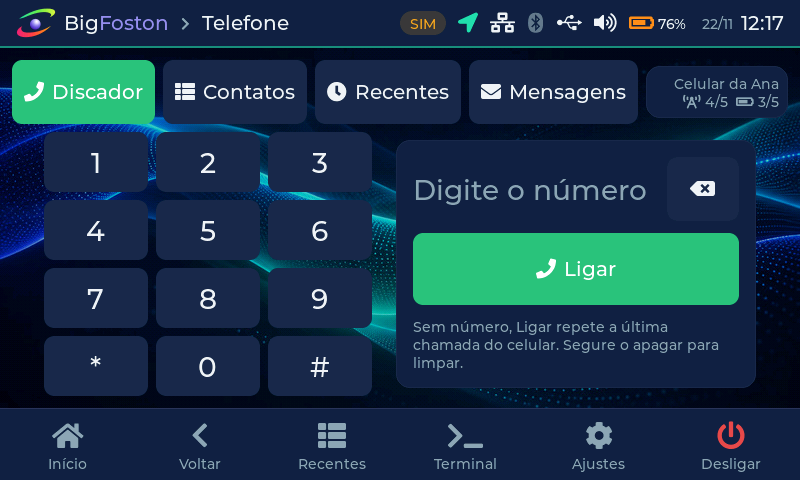
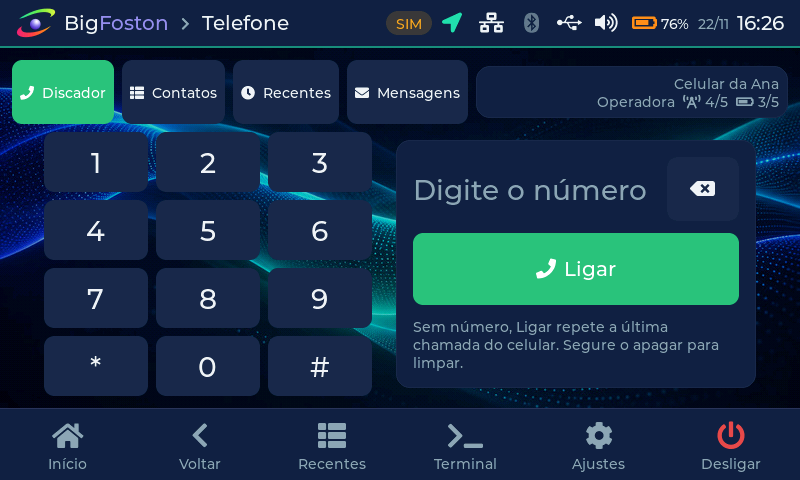
Início, barra superior e toque: atalhos, Conexão com o celular e rolagem estável
- Barra superior: caixas de toque de 44 px em volta dos ícones; GPS -> GpsInfo, rede ->
  SSH, Bluetooth -> Bluetooth, som -> volume num toque, bateria -> Potência.
- Glass: card Conexão mais largo (446 px), linhas inteiras clicáveis (os filhos não roubam
  o toque), operadora, antena e bateria do celular na linha do Bluetooth; dock com TV e
  Galeria no lugar de GPS e Bluetooth.
- Telefone: status ao lado das abas com operadora, antena e bateria; abas compactas.
- Toque: mediana de 3 amostras, média e zona morta de 2 px; LVGL com limiar de rolagem
  de 16 px e arremesso mais curto (rolagem estável no painel resistivo).

Testado no aparelho: volume abre com um toque; o texto da linha Bluetooth abre a tela.

Changed region(s): [[0.0312, 0.125, 0.8438, 0.2812], [0.4688, 0.0, 0.6875, 0.0938], [0.75, 0.0312, 1.0, 0.0625]]

diff --git a/src/ui/screens/scr_home_glass.c b/src/ui/screens/scr_home_glass.c
@@ -15,6 +15,7 @@
 #include "../core/cover.h"
 #include "../core/btstat.h"
 #include "../core/gpsstat.h"
+#include "../core/phonestat.h"
 #include "../widgets/glass.h"
 #include "../assets/icons/bf_icons.h"
 #include <stdio.h>
@@ -25,7 +26,7 @@
 
 static lv_timer_t *tick_t, *spec_t;
 static lv_obj_t *clk, *date_l, *wday_l;
-static lv_obj_t *bt_dev, *bt_st, *bt_dot, *gps_st, *gps_dot, *gps_bars;
+static lv_obj_t *bt_dev, *bt_st, *bt_dot, *gps_st, *gps_dot, *gps_bars, *ph_op, *ph_bars, *ph_bat;
 static lv_obj_t *cov_box, *cov_img, *cov_note, *song, *artist, *spec, *pos_l, *len_l, *prog, *play_l;
 static lv_image_dsc_t thumb;
 static int thumb_for = -2, last_min = -1, last_day = -1;
@@ -105,12 +106,25 @@ static void gl_clock_tick(void)
 static void open_bt(lv_event_t *e) { (void)e; nav_go(SCR_BLUETOOTH, 0); }
 static void open_gps(lv_event_t *e) { (void)e; nav_go(SCR_GPS, 0); }
 
+#define CONN_W 446                         /* largura do card Conexão (alinhado ao do relógio) */
+
+/* a linha inteira é o botão: os filhos não pegam o toque */
+static void unclick_children(lv_obj_t *o)
+{
+    for(uint32_t i = 0; i < lv_obj_get_child_count(o); i++) {
+        lv_obj_t *c = lv_obj_get_child(o, (int32_t)i);
+        lv_obj_remove_flag(c, LV_OBJ_FLAG_CLICKABLE);
+        unclick_children(c);
+    }
+}
+
 static lv_obj_t *row(lv_obj_t *card, int y, int h, lv_event_cb_t cb)
 {
     lv_obj_t *r = lv_obj_create(card);
     lv_obj_remove_style_all(r);
     lv_obj_set_pos(r, 6, y);
-    lv_obj_set_size(r, 258, h);
+    lv_obj_set_size(r, CONN_W - 14, h);
+    lv_obj_add_flag(r, LV_OBJ_FLAG_CLICKABLE);
     lv_obj_set_style_radius(r, 14, 0);
     lv_obj_set_style_bg_color(r, lv_color_white(), LV_STATE_PRESSED);
     lv_obj_set_style_bg_opa(r, LV_OPA_10, LV_STATE_PRESSED);
@@ -132,7 +146,7 @@ static lv_obj_t *dot(lv_obj_t *parent)
 
 static void conn_card(lv_obj_t *p)
 {
-    lv_obj_t *c = glass_card(p, 32, 117, 272, 156, 22);     /* folga abaixo do GPS */
+    lv_obj_t *c = glass_card(p, 30, 117, CONN_W, 156, 22);  /* folga abaixo do GPS */
     lv_obj_t *t = glass_label(c, tr(S_GL_CONNECTION), BF_FONT_M, GL_WHITE);
     lv_obj_set_pos(t, 18, 8);
 
@@ -149,10 +163,22 @@ static void conn_card(lv_obj_t *p)
     lv_obj_set_pos(bt_dot, 63, 45);
     bt_st = glass_label(r, "", BF_FONT_S, GL_ACTIVE);
     lv_obj_set_pos(bt_st, 76, 40);
+    /* celular conectado: operadora, antena (sinal 0-5 em 4 barras) e bateria */
+    ph_op = glass_label(r, "", BF_FONT_S, GL_WHITE);
+    lv_obj_set_width(ph_op, 160);
+    lv_label_set_long_mode(ph_op, LV_LABEL_LONG_DOT);
+    lv_obj_set_style_text_align(ph_op, LV_TEXT_ALIGN_RIGHT, 0);
+    lv_obj_set_pos(ph_op, CONN_W - 14 - 170, 6);
+    ph_bars = glass_bars(r);
+    lv_obj_set_pos(ph_bars, CONN_W - 14 - 100, 30);
+    ph_bat = glass_label(r, "", BF_FONT_S, GL_WHITE);
+    lv_obj_set_pos(ph_bat, CONN_W - 14 - 62, 34);
+    glass_bars_set(ph_bars, -1);
+    unclick_children(r);
 
     lv_obj_t *line = lv_obj_create(c);
     lv_obj_remove_style_all(line);
-    lv_obj_set_size(line, 236, 1);
+    lv_obj_set_size(line, CONN_W - 36, 1);
     lv_obj_set_pos(line, 18, 100);
     lv_obj_set_style_bg_color(line, lv_color_white(), 0);
     lv_obj_set_style_bg_opa(line, LV_OPA_30, 0);
@@ -167,7 +193,8 @@ static void conn_card(lv_obj_t *p)
     gps_st = glass_label(r, "", BF_FONT_S, GL_ACTIVE);
     lv_obj_set_pos(gps_st, 76, 22);
     gps_bars = glass_bars(r);
-    lv_obj_set_pos(gps_bars, 216, 8);
+    lv_obj_set_pos(gps_bars, CONN_W - 14 - 46, 8);
+    unclick_children(r);
 }
 
 static void status_color(lv_obj_t *dot_, lv_obj_t *lbl, bool on)
@@ -200,6 +227,23 @@ static void conn_tick(void)
     set_text_if(bt_dev, dev);
     set_text_if(bt_st, st);
     status_color(bt_dot, bt_st, on);
+
+    /* celular pelo canal de ligações (HFP): operadora, sinal e bateria dele */
+    ph_info_t ph;
+    ph_read(&ph);
+    if(ph.link && ph.signal >= 0) {
+        set_text_if(ph_op, ph.op[0] ? ph.op : "");
+        glass_bars_set(ph_bars, ph.service == 0 ? 0 : (ph.signal * 4 + 4) / 5);
+        char bb[24];
+        snprintf(bb, sizeof bb, "%s %d/5", ph.battery >= 4 ? LV_SYMBOL_BATTERY_FULL : ph.battery >= 3 ? LV_SYMBOL_BATTERY_3 :
+                 ph.battery >= 2 ? LV_SYMBOL_BATTERY_2 : ph.battery >= 1 ? LV_SYMBOL_BATTERY_1 : LV_SYMBOL_BATTERY_EMPTY,
+                 ph.battery < 0 ? 0 : ph.battery);
+        set_text_if(ph_bat, ph.battery >= 0 ? bb : "");
+    } else {
+        set_text_if(ph_op, "");
+        set_text_if(ph_bat, "");
+        glass_bars_set(ph_bars, -1);
+    }
 
     gps_info_t g;
     gps_read(&g);
@@ -423,10 +467,10 @@ static void spec_tick(lv_timer_t *t)
 static void dock_click(lv_event_t *e)
 {
     switch((int)(intptr_t)lv_event_get_user_data(e)) {
-    case 0: nav_go(SCR_MAP, 0); break;
+    case 0: nav_go(SCR_FEATURE, FEAT_TV); break;
     case 1: nav_go(SCR_FEATURE, FEAT_RADIO); break;
     case 2: nav_go(SCR_HOME, HOME_ARG_APPS); break;
-    case 3: nav_go(SCR_BLUETOOTH, 0); break;
+    case 3: nav_go(SCR_GALLERY, 0); break;
     case 4: nav_go(SCR_PHONE, 0); break;
     }
 }
@@ -462,10 +506,10 @@ static void dock(lv_obj_t *p)
 {
     lv_obj_t *d = glass_card(p, 24, 287, 752, 124, 28);
     static const struct { const lv_image_dsc_t *icon; bf_str_t name; uint32_t top, bot; } it[5] = {
-        { &bf_icon_gps, S_APP_GPS, GL_LIGHT, GL_BLUE },
+        { &bf_icon_tv, S_APP_TV, GL_LIGHT, GL_BLUE },
         { &bf_icon_fm, S_GL_RADIO, GL_LAVENDER, GL_LAVBLUE },
         { NULL, S_GL_APPS, GL_SKY, GL_BLUE },
-        { &bf_icon_bluetooth, S_APP_BLUETOOTH, GL_LIGHT, GL_BLUE },
+        { &bf_icon_gallery, S_APP_GALLERY, GL_LIGHT, GL_BLUE },
         { &bf_icon_phone, S_APP_PHONE, GL_LAVENDER, GL_LAVBLUE },
     };
     static const int cx[5] = { 85, 231, 376, 521, 667 };
@@ -526,6 +570,6 @@ void home_glass_destroy(void)
     if(spec_t) { lv_timer_delete(spec_t); spec_t = NULL; }
     jpeg_free(&thumb);
     thumb_for = -2;
-    clk = date_l = wday_l = bt_dev = bt_st = bt_dot = gps_st = gps_dot = gps_bars = NULL;
+    clk = date_l = wday_l = bt_dev = bt_st = bt_dot = gps_st = gps_dot = gps_bars = ph_op = ph_bars = ph_bat = NULL;
     cov_box = cov_img = cov_note = song = artist = spec = pos_l = len_l = prog = play_l = NULL;
 }

diff --git a/src/ui/widgets/topbar.c b/src/ui/widgets/topbar.c
@@ -50,8 +50,35 @@ static void glass_nav(lv_obj_t *bar_)
 static void vol_click(lv_event_t *e)
 {
     lv_area_t a;
-    lv_obj_get_coords(lv_event_get_target(e), &a);
-    volpop_open((a.x1 + a.x2) / 2, a.y2 + 10);
+    lv_obj_get_coords(lv_event_get_current_target(e), &a);
+    volpop_open((a.x1 + a.x2) / 2, a.y2 + 6);
+}
+
+/* atalhos dos ícones de status: GPS -> GpsInfo, rede -> SSH, Bluetooth, bateria -> Potência */
+static void jump_click(lv_event_t *e)
+{
+    volpop_close();
+    nav_go((bf_screen_t)(intptr_t)lv_event_get_user_data(e), 0);
+}
+
+/* caixa de toque de 44 px de altura em volta de um ícone (o desenho continua pequeno) */
+static lv_obj_t *hit_box(lv_obj_t *parent, lv_event_cb_t cb, void *ud)
+{
+    lv_obj_t *b = lv_obj_create(parent);
+    lv_obj_remove_style_all(b);
+    lv_obj_set_size(b, LV_SIZE_CONTENT, BF_TOPBAR_H - 4);
+    lv_obj_set_style_min_width(b, 40, 0);
+    lv_obj_set_style_pad_hor(b, 5, 0);
+    lv_obj_set_style_radius(b, BF_RADIUS_S, 0);
+    lv_obj_set_style_bg_color(b, lv_color_white(), LV_STATE_PRESSED);
+    lv_obj_set_style_bg_opa(b, LV_OPA_20, LV_STATE_PRESSED);
+    lv_obj_set_flex_flow(b, LV_FLEX_FLOW_ROW);
+    lv_obj_set_flex_align(b, LV_FLEX_ALIGN_CENTER, LV_FLEX_ALIGN_CENTER, LV_FLEX_ALIGN_CENTER);
+    lv_obj_set_style_pad_column(b, 4, 0);
+    lv_obj_remove_flag(b, LV_OBJ_FLAG_SCROLLABLE);
+    lv_obj_add_flag(b, LV_OBJ_FLAG_CLICKABLE);
+    lv_obj_add_event_cb(b, cb, LV_EVENT_CLICKED, ud);
+    return b;
 }
 
 static void set_text_if(lv_obj_t *l, const char *t)
@@ -142,23 +169,18 @@ lv_obj_t *topbar_create(lv_obj_t *parent)
     lv_obj_set_size(icons, LV_SIZE_CONTENT, LV_SIZE_CONTENT);
     lv_obj_set_flex_flow(icons, LV_FLEX_FLOW_ROW);
     lv_obj_set_flex_align(icons, LV_FLEX_ALIGN_START, LV_FLEX_ALIGN_CENTER, LV_FLEX_ALIGN_CENTER);
-    lv_obj_set_style_pad_column(icons, glass ? 16 : 12, 0);
+    lv_obj_set_style_pad_column(icons, glass ? 2 : 0, 0);
 
     sim_badge = bf_pill(icons, tr(S_SIM_BADGE), p->warning);
-    ic_gps = icon(icons, LV_SYMBOL_GPS);
-    ic_net = icon(icons, BF_SYMBOL_NET);
-    ic_bt  = icon(icons, LV_SYMBOL_BLUETOOTH);
+    /* cada ícone numa caixa de toque grande; um toque leva à tela dele */
+    ic_gps = icon(hit_box(icons, jump_click, (void *)(intptr_t)SCR_GPS), LV_SYMBOL_GPS);
+    ic_net = icon(hit_box(icons, jump_click, (void *)(intptr_t)SCR_SSH), BF_SYMBOL_NET);
+    ic_bt  = icon(hit_box(icons, jump_click, (void *)(intptr_t)SCR_BLUETOOTH), LV_SYMBOL_BLUETOOTH);
     ic_usb = icon(icons, LV_SYMBOL_USB);
-    ic_vol = icon(icons, LV_SYMBOL_VOLUME_MAX);
-    /* toque no ícone de som: controle de volume, em qualquer tela */
-    lv_obj_add_flag(ic_vol, LV_OBJ_FLAG_CLICKABLE);
-    lv_obj_set_ext_click_area(ic_vol, 14);
-    lv_obj_add_event_cb(ic_vol, vol_click, LV_EVENT_CLICKED, NULL);
-    lv_obj_t *batbox = bf_plain(icons);
-    lv_obj_set_size(batbox, LV_SIZE_CONTENT, LV_SIZE_CONTENT);
-    lv_obj_set_flex_flow(batbox, LV_FLEX_FLOW_ROW);
-    lv_obj_set_flex_align(batbox, LV_FLEX_ALIGN_START, LV_FLEX_ALIGN_CENTER, LV_FLEX_ALIGN_CENTER);
-    lv_obj_set_style_pad_column(batbox, 4, 0);
+    lv_obj_set_style_margin_hor(ic_usb, 5, 0);
+    /* som: um toque abre o controle de volume, em qualquer tela */
+    ic_vol = icon(hit_box(icons, vol_click, NULL), LV_SYMBOL_VOLUME_MAX);
+    lv_obj_t *batbox = hit_box(icons, jump_click, (void *)(intptr_t)SCR_POWER);
     ic_bat = battery_create(batbox, BF_FONT_M);
     bat_pct = bf_label(batbox, "—", BF_FONT_S, p->text);
 

diff --git a/src/ui/core/touch_calib.c b/src/ui/core/touch_calib.c
@@ -98,8 +98,17 @@ static struct {
     bool have_cal, down;
     bf_calib_t cal;
     int32_t rx, ry;         /* bruto, último valor do evdev */
-    lv_point_t pt;          /* calibrado */
+    lv_point_t pt;          /* calibrado e filtrado */
+    int32_t hx[3], hy[3];   /* últimas amostras calibradas (mediana) */
+    unsigned filt_n;        /* amostras desde que o dedo encostou */
 } ts = { .fd = -1 };
+
+static int32_t med3(int32_t a, int32_t b, int32_t c)
+{
+    if(a > b) { int32_t t = a; a = b; b = t; }
+    if(b > c) b = c;
+    return a > b ? a : b;
+}
 
 static void ts_map(void)
 {
@@ -112,8 +121,18 @@ static void ts_map(void)
         x = ts.rx * 800 / 1024;
         y = ts.ry * 480 / 1024;
     }
-    ts.pt.x = LV_CLAMP(0, x, 799);
-    ts.pt.y = LV_CLAMP(0, y, 479);
+    x = LV_CLAMP(0, x, 799);
+    y = LV_CLAMP(0, y, 479);
+    /* Painel resistivo: picos isolados (sobretudo ao encostar e ao soltar) e tremor de
+     * alguns pixels deixavam a rolagem instável. Mediana das 3 últimas amostras (tira os
+     * picos), média com a posição anterior (suaviza) e zona morta de 2 px parado. */
+    if(!ts.filt_n) { for(int i = 0; i < 3; i++) { ts.hx[i] = x; ts.hy[i] = y; } ts.pt.x = x; ts.pt.y = y; }
+    ts.hx[ts.filt_n % 3] = x;
+    ts.hy[ts.filt_n % 3] = y;
+    ts.filt_n++;
+    int32_t mx = med3(ts.hx[0], ts.hx[1], ts.hx[2]), my = med3(ts.hy[0], ts.hy[1], ts.hy[2]);
+    int32_t nx = (ts.pt.x + mx + 1) / 2, ny = (ts.pt.y + my + 1) / 2;
+    if(LV_ABS(nx - ts.pt.x) >= 2 || LV_ABS(ny - ts.pt.y) >= 2) { ts.pt.x = nx; ts.pt.y = ny; }
 }
 
 static void ts_read(lv_indev_t *indev, lv_indev_data_t *data)
@@ -123,7 +142,10 @@ static void ts_read(lv_indev_t *indev, lv_indev_data_t *data)
     while(read(ts.fd, &ev, sizeof ev) == (ssize_t)sizeof ev) {
         if(ev.type == EV_ABS && ev.code == ABS_X) ts.rx = ev.value;
         else if(ev.type == EV_ABS && ev.code == ABS_Y) ts.ry = ev.value;
-        else if(ev.type == EV_KEY && ev.code == BTN_TOUCH) ts.down = ev.value != 0;
+        else if(ev.type == EV_KEY && ev.code == BTN_TOUCH) {
+            ts.down = ev.value != 0;
+            if(ts.down) ts.filt_n = 0;             /* novo toque: o filtro recomeça */
+        }
         else if(ev.type == EV_SYN) ts_map();
     }
     data->point = ts.pt;
@@ -140,6 +162,10 @@ lv_indev_t *touch_create(const char *dev)
     /* por evento: o laço principal espera no fd (poll) e lê na hora em que o kernel
      * entrega o toque; enquanto o dedo está na tela o LVGL lê pelo próprio timer */
     lv_indev_set_mode(in, LV_INDEV_MODE_EVENT);
+    /* rolagem: só começa depois de 16 px (toques não viram rolagem) e o arremesso
+     * desacelera mais rápido (menos "escorregões" com o tremor do resistivo) */
+    lv_indev_set_scroll_limit(in, 16);
+    lv_indev_set_scroll_throw(in, 20);
     return in;
 }
 

diff --git a/src/ui/screens/scr_phone.c b/src/ui/screens/scr_phone.c
@@ -916,8 +916,10 @@ static void refresh(void)
     else if(!cur.link) snprintf(b, sizeof b, "%s", tr(S_PH_NOPHONE));
     else {
         snprintf(b, sizeof b, "%s", cur.dev);
+        /* operadora, antena (sinal) e bateria do celular, pelo HFP */
+        size_t n2 = (size_t)snprintf(b2, sizeof b2, "%s%s", cur.op, cur.op[0] ? "  " : "");
         if(cur.signal >= 0 && cur.battery >= 0)
-            snprintf(b2, sizeof b2, BF_SYMBOL_TOWER " %d/5  %s %d/5", cur.signal,
+            snprintf(b2 + n2, sizeof b2 - n2, BF_SYMBOL_TOWER " %d/5  %s %d/5", cur.signal,
                      cur.battery >= 4 ? LV_SYMBOL_BATTERY_FULL : cur.battery >= 3 ? LV_SYMBOL_BATTERY_3 :
                      cur.battery >= 2 ? LV_SYMBOL_BATTERY_2 : cur.battery >= 1 ? LV_SYMBOL_BATTERY_1 : LV_SYMBOL_BATTERY_EMPTY,
                      cur.battery);
@@ -965,13 +967,16 @@ static void create(lv_obj_t *parent, int arg)
     for(int i = 0; i < NTABS; i++) {
         tab_btn[i] = bf_button(tabbar, syms[i], tr(names[i]), 0);
         lv_obj_set_height(tab_btn[i], 52);
-        lv_obj_set_style_pad_hor(tab_btn[i], BF_SP_M, 0);
+        lv_obj_set_style_pad_hor(tab_btn[i], BF_SP_S, 0);
+        for(uint32_t k = 0; k < lv_obj_get_child_count(tab_btn[i]); k++)   /* abas compactas: sobra lugar */
+            lv_obj_set_style_text_font(lv_obj_get_child(tab_btn[i], (int32_t)k), BF_FONT_S, 0);
         lv_obj_set_style_bg_color(tab_btn[i], lv_color_hex(C_PHONE), LV_STATE_CHECKED);
         lv_obj_set_style_text_color(tab_btn[i], lv_color_white(), LV_STATE_CHECKED);
         lv_obj_add_event_cb(tab_btn[i], on_tab, LV_EVENT_CLICKED, (void *)(intptr_t)i);
     }
     lv_obj_t *st = bf_card(tabbar);
     lv_obj_set_height(st, 52);
+    lv_obj_set_style_min_width(st, 0, 0);
     lv_obj_set_style_pad_ver(st, 4, 0);
     lv_obj_set_style_pad_hor(st, BF_SP_S, 0);
     lv_obj_remove_flag(st, LV_OBJ_FLAG_SCROLLABLE);

diff --git a/docs/foston-glass/00-visao-geral.md b/docs/foston-glass/00-visao-geral.md
@@ -33,7 +33,7 @@ Tudo dentro do shell LVGL existente; nenhum processo ou serviço novo.
 |---|---|
 | Barra superior | y 0-48 (vidro azul-profundo, 70 %) |
 | Relógio e data | (30, 21) 446x88 |
-| Conexão | (32, 117) 272x156 |
+| Conexão | (30, 117) 446x156 (linhas inteiras clicáveis; operadora, antena e bateria do celular) |
 | Player | (508, 18) 272x233 |
 | Dock | (24, 287) 752x124; Apps: quadrado de 96 px por cima do dock (filho da tela), 18 px acima dele |
 
@@ -50,8 +50,11 @@ Tudo dentro do shell LVGL existente; nenhum processo ou serviço novo.
 - **Player:** o da Multimídia (não há outro motor de áudio). Cartão: capa da faixa, espectro real,
   busca na faixa pelo toque. Celular: título, artista, tempo e estado do AVRCP, ícone do
   Bluetooth no lugar da capa (o celular não manda a imagem), sem busca na faixa.
-- **Dock:** GPS (Big GPS), Rádio (página honesta: nenhum receptor de rádio identificado no FOSTON),
-  Apps (grade com todos os aplicativos), Bluetooth, Telefone (docs/phone; a TV fica na grade Apps).
+- **Dock:** TV, Rádio (página honesta: nenhum receptor de rádio identificado no FOSTON),
+  Apps (grade com todos os aplicativos), Galeria, Telefone (docs/phone). GPS e Bluetooth ficam no
+  card Conexão (linha inteira abre a tela) e na barra superior.
+- **Barra superior:** cada ícone tem uma caixa de toque de 44 px: GPS → GpsInfo, rede → SSH,
+  Bluetooth → Bluetooth, som → volume (um toque), bateria → Potência.
 
 ## Desempenho (FOSTON, shell compilado pelo Buildroot)
 
